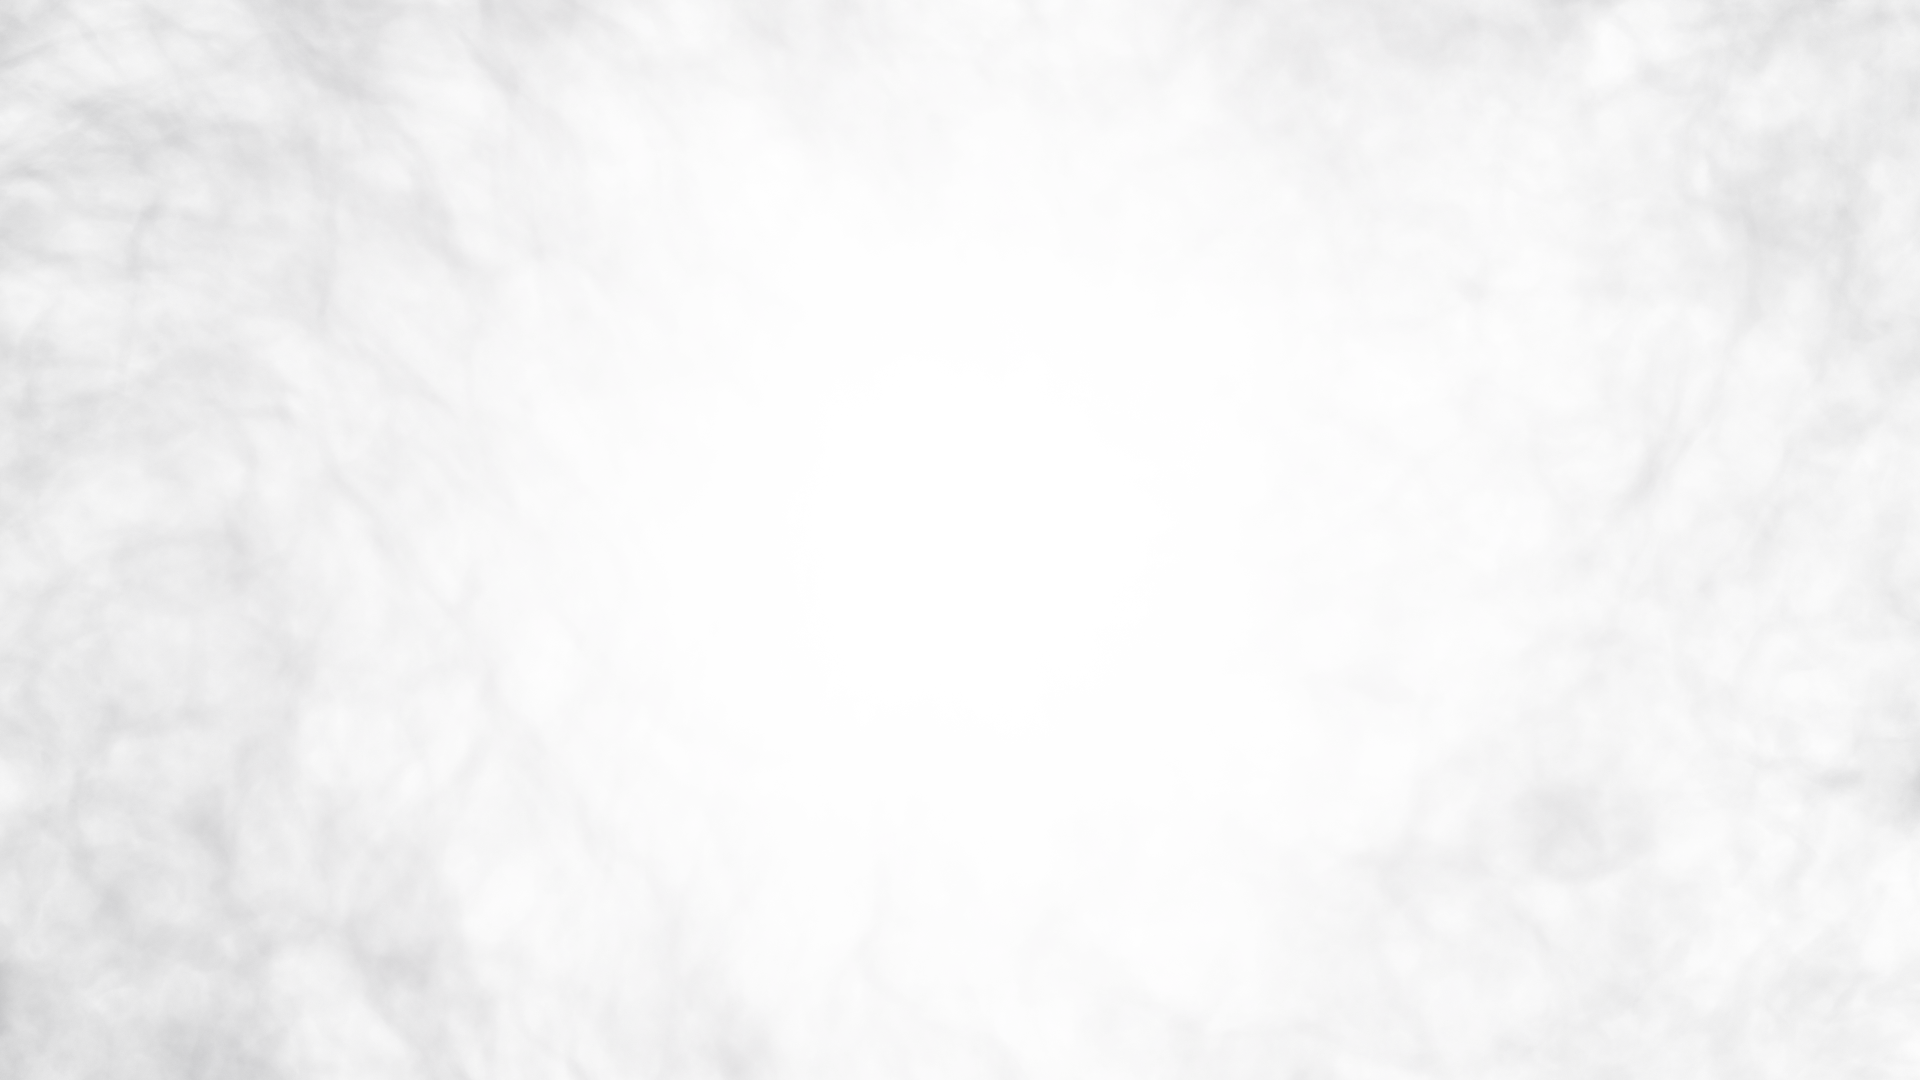
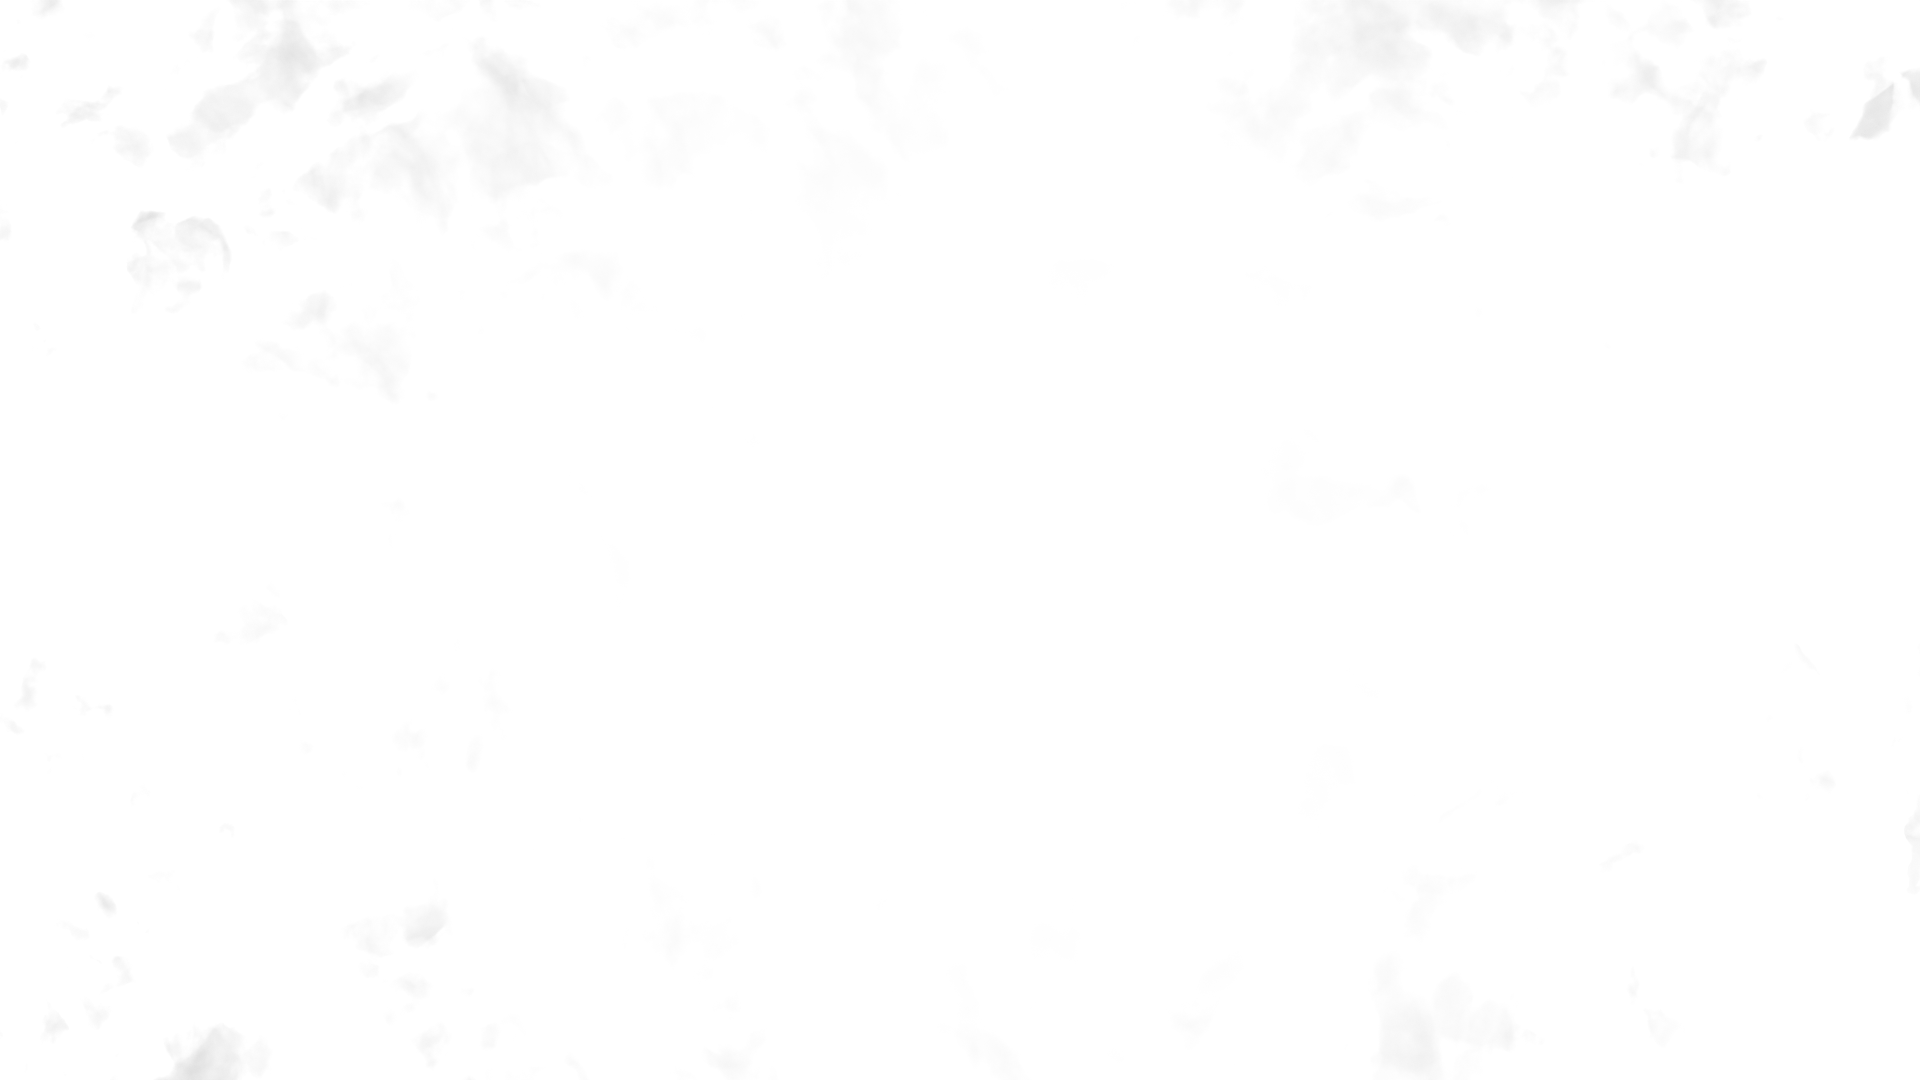
made the space clouds on the hojme page thicker

diff --git a/components/backgrounds/ReviewPageBackground/ReviewPageBackground.tsx b/components/backgrounds/ReviewPageBackground/ReviewPageBackground.tsx
@@ -73,7 +73,7 @@ const ReviewPageBackground: FC<ReviewPageBackgroundProps> = ({
       spaceMap.colorSpace = SRGBColorSpace;
       const spaceCloudsMaterial = new MeshBasicMaterial({
         map: spaceMap,
-        color: spaceColour || 0x9c95ac,
+        color: spaceColour || 0xac85cc,
         transparent: true,
       });
 

diff --git a/components/backgrounds/HomePageBackground/HomePageBackground.tsx b/components/backgrounds/HomePageBackground/HomePageBackground.tsx
@@ -73,7 +73,7 @@ const HomePageBackground: FC<HomePageBackgroundProps> = ({
       spaceMap.colorSpace = SRGBColorSpace;
       const spaceCloudsMaterial = new MeshBasicMaterial({
         map: spaceMap,
-        color: 0x9c95ac,
+        color: 0xac85cc,
         transparent: true,
       });
 
